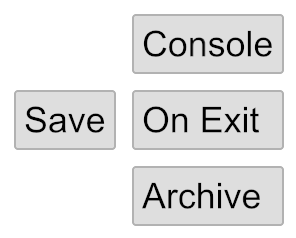
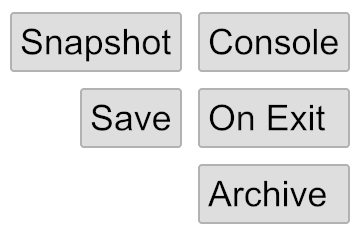
document snapshot button

diff --git a/enclone_visual/src/help.rs b/enclone_visual/src/help.rs
@@ -18,7 +18,7 @@ pub fn help(slf: &mut gui_structures::EncloneVisual) -> Element<Message> {
         .push(Space::with_width(Length::Fill))
         .push(help_close_button);
     let max_width = Units((slf.width - 60) as u16);
-    let max_width2 = Units((slf.width - 200) as u16);
+    let max_width2 = Units((slf.width - 250) as u16);
     let png_input_region = include_bytes!("../images/input_region.png").to_vec();
     let input_region =
         Image::new(iced::image::Handle::from_memory(png_input_region)).width(max_width);
@@ -118,31 +118,38 @@ pub fn help(slf: &mut gui_structures::EncloneVisual) -> Element<Message> {
                     Column::new()
                         .push(Space::with_height(Units(10)))
                         .push(Text::new(
-                            "Here are four buttons that appear in the upper right \
+                            "Here are five buttons that appear in the upper right \
                              corner of the screen:",
                         ))
                         .push(Space::with_height(Units(20)))
                         .push(
                             Text::new(
-                                "1.  Console, to show what's in the terminal window.  \
+                                "1.  Snapshot, to copy a screenshot of the entire window \
+                                 to the clipboard.",
+                            )
+                            .width(max_width2),
+                        )
+                        .push(
+                            Text::new(
+                                "2.  Console, to show what's in the terminal window.  \
                                  At the moment this is mostly of interest to developers.",
                             )
                             .width(max_width2),
                         )
                         .push(
-                            Text::new("2.  Save, to cause the session to be saved.")
+                            Text::new("3.  Save, to cause the session to be saved.")
                                 .width(max_width2),
                         )
                         .push(
                             Text::new(
-                                "3.  On Exit, to cause the session to be saved \
+                                "4.  On Exit, to cause the session to be saved \
                                  when the Exit button is pushed.",
                             )
                             .width(max_width2),
                         )
                         .push(
                             Text::new(
-                                "4.  Archive.  Opens a page to allow restoration or sharing of a \
+                                "5.  Archive.  Opens a page to allow restoration or sharing of a \
                                  previous session.",
                             )
                             .width(max_width2),

diff --git a/enclone_visual/src/process_messages.rs b/enclone_visual/src/process_messages.rs
@@ -34,7 +34,7 @@ impl EncloneVisual {
                     let mut f = File::open(&filename).unwrap();
                     f.read_to_end(&mut bytes).unwrap();
                 }
-                remove_file(&filename);
+                remove_file(&filename).unwrap();
                 copy_png_bytes_to_clipboard(&bytes);
                 Command::none()
             }
